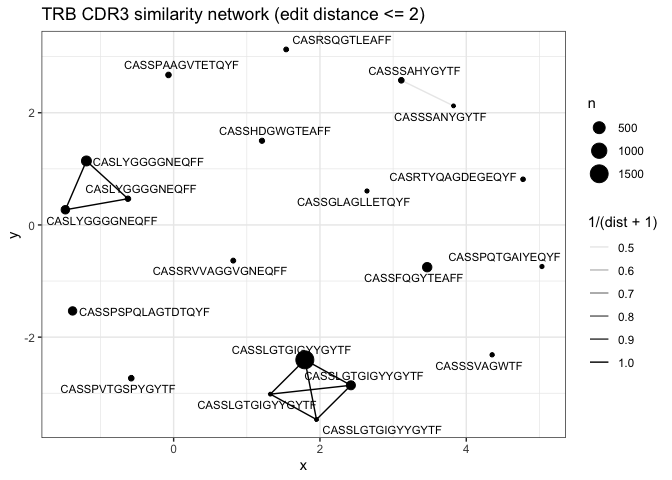
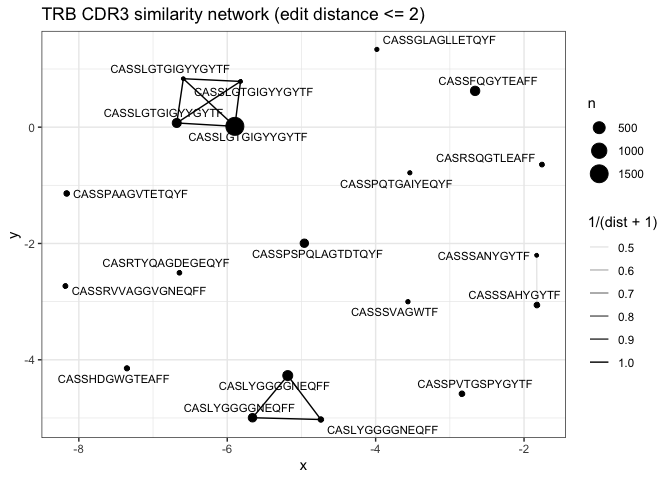
removing unused files

diff --git a/demo_tcr/20260420_DGP845.BCR_TCR_repertoire.md b/demo_tcr/20260420_DGP845.BCR_TCR_repertoire.md
@@ -1,7 +1,7 @@
 Single-cell TCR-seq data and epitope mapping
 ================
 true
-2026-04-14
[phone redacted]
 
 - [1. Introduction](#1-introduction)
   - [Learning goals](#learning-goals)
@@ -52,8 +52,7 @@ Input dataset was download from the 10x Genomics dataset page
 (<https://www.10xgenomics.com/datasets/5k-human-a0201-b0702-pbmcs-beam-t-2-standard>)
 and place in current working directory called `demo_tcr/`. This demo
 uses:\
-- `filtered_contig_annotations.csv` - `clonotypes.csv` -
-`consensus_annotations.csv`
+- `filtered_contig_annotations.csv`
 
 ## Folder structure
 
@@ -61,9 +60,7 @@ uses:\
 DGP-485/
 └── demo_tcr/
     ├── 20260420_DGP845.BCR_TCR_repertoire.Rmd
-    ├── filtered_contig_annotations.csv
-    ├── clonotypes.csv
-    └── consensus_annotations.csv
+    └── filtered_contig_annotations.csv
 ```
 
 ## Load packages
@@ -82,8 +79,6 @@ suppressPackageStartupMessages(library(package = "tidyverse"))
 
 ``` r
 contigsDF <- read.csv("filtered_contig_annotations.csv")
-clonotypesDF <- read.csv("clonotypes.csv")
-consensusDF <- read.csv("consensus_annotations.csv")
 ```
 
 Print the header
@@ -169,128 +164,6 @@ head(contigsDF)
     ## 4 clonotype1_consensus_2                     1
     ## 5 clonotype1_consensus_1                     1
     ## 6 clonotype2_consensus_2                     1
-
-``` r
-head(clonotypesDF)
-```
-
-    ##   clonotype_id frequency proportion
-    ## 1   clonotype1      1552 0.56008661
-    ## 2   clonotype2       288 0.10393360
-    ## 3   clonotype3       243 0.08769397
-    ## 4   clonotype4       206 0.07434139
-    ## 5   clonotype5       166 0.05990617
-    ## 6   clonotype6       163 0.05882353
-    ##                                                 cdr3s_aa
-    ## 1                   TRB:CASSLGTGIGYYGYTF;TRA:CARNTGNQFYF
-    ## 2 TRB:CASLYGGGGNEQFF;TRA:CAADDTNTGNQFYF;TRA:CAVSAINEKLTF
-    ## 3                      TRB:CASSFQGYTEAFF;TRA:CADYYGQNFVF
-    ## 4                                   TRB:CASSLGTGIGYYGYTF
-    ## 5                  TRB:CASLYGGGGNEQFF;TRA:CAADDTNTGNQFYF
-    ## 6                   TRB:CASSPSPQLAGTDTQYF;TRA:CAYSNYQLIW
-    ##                                                                                                                                 cdr3s_nt
-    ## 1                                             TRB:TGTGCCAGCAGTCTAGGGACAGGGATCGGCTACTATGGCTACACCTTC;TRA:TGTGCCCGGAACACCGGTAACCAGTTCTATTTT
-    ## 2 TRB:TGTGCCAGCCTATACGGGGGAGGGGGCAATGAGCAGTTCTTC;TRA:TGTGCTGCCGACGATACGAACACCGGTAACCAGTTCTATTTT;TRA:TGTGCTGTGAGTGCTATAAATGAGAAATTAACCTTT
-    ## 3                                                      TRB:TGTGCCAGCAGTTTTCAGGGATACACTGAAGCTTTCTTT;TRA:TGTGCTGACTACTATGGTCAGAATTTTGTCTTT
-    ## 4                                                                                   TRB:TGTGCCAGCAGTCTAGGGACAGGGATCGGCTACTATGGCTACACCTTC
-    ## 5                                          TRB:TGTGCCAGCCTATACGGGGGAGGGGGCAATGAGCAGTTCTTC;TRA:TGTGCTGCCGACGATACGAACACCGGTAACCAGTTCTATTTT
-    ## 6                                             TRB:TGTGCCAGCAGCCCCAGCCCCCAGCTAGCGGGCACAGATACGCAGTATTTT;TRA:TGTGCTTATAGCAACTATCAGTTAATCTGG
-    ##   inkt_evidence mait_evidence
-    ## 1            NA      TRB:gene
-    ## 2            NA              
-    ## 3            NA              
-    ## 4            NA      TRB:gene
-    ## 5            NA              
-    ## 6            NA
-
-``` r
-head(consensusDF)
-```
-
-    ##   clonotype_id          consensus_id length chain  v_gene d_gene  j_gene c_gene
-    ## 1   clonotype1 clonotype1_consensus1    521   TRB TRBV6-5  TRBD1 TRBJ1-2  TRBC1
-    ## 2   clonotype1 clonotype1_consensus2    743   TRA  TRAV24         TRAJ49   TRAC
-    ## 3   clonotype2 clonotype2_consensus1    590   TRB  TRBV13  TRBD1 TRBJ2-1  TRBC2
-    ## 4   clonotype2 clonotype2_consensus2    662   TRA  TRAV41         TRAJ49   TRAC
-    ## 5   clonotype2 clonotype2_consensus3    656   TRA TRAV8-6         TRAJ48   TRAC
-    ## 6   clonotype3 clonotype3_consensus1    466   TRB  TRBV28        TRBJ1-1  TRBC1
-    ##   full_length productive                       fwr1
-    ## 1        true       true NAGVTQTPKFQVLKTGQSMTLQCAQD
-    ## 2        true       true ILNVEQSPQSLHVQEGDSTNFTCSFP
-    ## 3        true       true AAGVIQSPRHLIKEKRETATLKCYPI
-    ## 4        true       true KNEVEQSPQNLTAQEGEFITINCSYS
-    ## 5        true       true AQSVTQLDSQVPVFEEAPVELRCNYS
-    ## 6        true       true DVKVTQSSRYLVKRTGEKVFLECVQD
-    ##                                                                          fwr1_nt
-    ## 1 AATGCTGGTGTCACTCAGACCCCAAAATTCCAGGTCCTGAAGACAGGACAGAGCATGACACTGCAGTGTGCCCAGGAT
-    ## 2 ATACTGAACGTGGAACAAAGTCCTCAGTCACTGCATGTTCAGGAGGGAGACAGCACCAATTTCACCTGCAGCTTCCCT
-    ## 3 GCTGCTGGAGTCATCCAGTCCCCAAGACATCTGATCAAAGAAAAGAGGGAAACAGCCACTCTGAAATGCTATCCTATC
-    ## 4 AAAAATGAAGTGGAGCAGAGTCCTCAGAACCTGACTGCCCAGGAAGGAGAATTTATCACAATCAACTGCAGTTACTCG
-    ## 5 GCCCAGTCTGTGACCCAGCTTGACAGCCAAGTCCCTGTCTTTGAAGAAGCCCCTGTGGAGCTGAGGTGCAACTACTCA
-    ## 6 GATGTGAAAGTAACCCAGAGCTCGAGATATCTAGTCAAAAGGACGGGAGAGAAAGTTTTTCTGGAATGTGTCCAGGAT
-    ##     cdr1            cdr1_nt              fwr2
-    ## 1  MNHEY    ATGAACCATGAATAC MSWYRQDPGMGLRLIHY
-    ## 2 SSNFYA TCCAGCAATTTTTATGCC LHWYRWETAKSPEALFV
-    ## 3  PRHDT    CCTAGACACGACACT VYWYQQGPGQDPQFLIS
-    ## 4  VGISA    GTAGGAATAAGTGCC LHWLQQHPGGGIVSLFM
-    ## 5 SSVSVY TCGTCTGTTTCAGTGTAT LFWYVQYPNQGLQLLLK
-    ## 6  MDHEN    ATGGACCATGAAAAT MFWYRQDPGLGLRLIYF
-    ##                                               fwr2_nt     cdr2
-    ## 1 ATGTCCTGGTATCGACAAGACCCAGGCATGGGGCTGAGGCTGATTCATTAC   SVGAGI
-    ## 2 TTACACTGGTACAGATGGGAAACTGCAAAAAGCCCCGAGGCCTTGTTTGTA  MTLNGDE
-    ## 3 GTCTACTGGTACCAGCAGGGTCCAGGTCAGGACCCCCAGTTCCTCATTTCG   FYEKMQ
-    ## 4 TTACACTGGCTGCAACAGCATCCAGGAGGAGGCATTGTTTCCTTGTTTATG    LSSGK
-    ## 5 CTCTTCTGGTATGTGCAATACCCCAACCAAGGACTCCAGCTTCTCCTGAAG YLSGSTLV
-    ## 6 ATGTTCTGGTATCGACAAGACCCAGGTCTGGGGCTACGGCTGATCTATTTC   SYDVKM
-    ##                    cdr2_nt                                 fwr3
-    ## 1       TCAGTTGGTGCTGGTATC TDQGEVPNGYNVSRSTTEDFPLRLLSAAPSQTSVYF
-    ## 2    ATGACTTTAAATGGGGATGAA    KKKGRISATLNTKEGYSYLYIKGSQPEDSATYL
-    ## 3       TTTTATGAAAAGATGCAG SDKGSIPDRFSAQQFSDYHSELNMSSLELGDSALYF
-    ## 4          CTGAGCTCAGGGAAG    KKHGRLIATINIQEKHSSLHITASHPRDSAVYI
-    ## 5 TATTTATCAGGATCCACCCTGGTT    KGINGFEAEFNKSQTSFHLRKPSVHISDTAEYF
-    ## 6       TCATATGATGTTAAAATG KEKGDIPEGYSVSREKKERFSLILESASTNQTSMYL
-    ##                                                                                                        fwr3_nt
-    ## 1 ACTGACCAAGGAGAAGTCCCCAATGGCTACAATGTCTCCAGATCAACCACAGAGGATTTCCCGCTCAGGCTGCTGTCGGCTGCTCCCTCCCAGACATCTGTGTACTTC
-    ## 2          AAGAAGAAAGGACGAATAAGTGCCACTCTTAATACCAAGGAGGGTTACAGCTATTTGTACATCAAAGGATCCCAGCCTGAAGACTCAGCCACATACCTC
-    ## 3 AGCGATAAAGGAAGCATCCCTGATCGATTCTCAGCTCAACAGTTCAGTGACTATCATTCTGAACTGAACATGAGCTCCTTGGAGCTGGGGGACTCAGCCCTGTACTTC
-    ## 4          AAGAAGCATGGAAGATTAATTGCCACAATAAACATACAGGAAAAGCACAGCTCCCTGCACATCACAGCCTCCCATCCCAGAGACTCTGCCGTCTACATC
-    ## 5          AAAGGCATCAACGGTTTTGAGGCTGAATTTAACAAGAGTCAAACTTCCTTCCACTTGAGGAAACCCTCAGTCCATATAAGCGACACGGCTGAGTACTTC
-    ## 6 AAAGAAAAAGGAGATATTCCTGAGGGGTACAGTGTCTCTAGAGAGAAGAAGGAGCGCTTCTCCCTGATTCTGGAGTCCGCCAGCACCAACCAGACATCTATGTACCTC
-    ##               cdr3                                          cdr3_nt       fwr4
-    ## 1 CASSLGTGIGYYGYTF TGTGCCAGCAGTCTAGGGACAGGGATCGGCTACTATGGCTACACCTTC  GSGTRLTVV
-    ## 2      CARNTGNQFYF                TGTGCCCGGAACACCGGTAACCAGTTCTATTTT GTGTSLTVIP
-    ## 3   CASLYGGGGNEQFF       TGTGCCAGCCTATACGGGGGAGGGGGCAATGAGCAGTTCTTC  GPGTRLTVL
-    ## 4   CAADDTNTGNQFYF       TGTGCTGCCGACGATACGAACACCGGTAACCAGTTCTATTTT GTGTSLTVIP
-    ## 5     CAVSAINEKLTF             TGTGCTGTGAGTGCTATAAATGAGAAATTAACCTTT GTGTRLTIIP
-    ## 6    CASSFQGYTEAFF          TGTGCCAGCAGTTTTCAGGGATACACTGAAGCTTTCTTT  GQGTRLTVV
-    ##                           fwr4_nt   reads  umis v_start v_end v_end_ref j_start
-    ## 1    GGTTCGGGGACCAGGTTAACCGTTGTAG 6085339 20067      66   410       344     421
-    ## 2 GGGACAGGGACAAGTTTGACGGTCATTCCAA 2502253  7546     304   647       343     645
-    ## 3    GGGCCAGGGACACGGCTCACCGTGCTAG 2920116  7379     111   485       374     494
-    ## 4 GGGACAGGGACAAGTTTGACGGTCATTCCAA  368971  1783     223   559       336     564
-    ## 5 GGGACTGGAACAAGACTCACCATCATACCCA  311696  1661     220   561       341     564
-    ## 6    GGACAAGGCACCAGACTCACAGTTGTAG 1036403  3334      20   364       344     366
-    ##   j_start_ref j_end fwr1_start fwr1_end cdr1_start cdr1_end fwr2_start fwr2_end
-    ## 1           0   469        123      201        201      216        216      267
-    ## 2           0   701        370      448        448      466        466      517
-    ## 3           6   538        198      276        276      291        291      342
-    ## 4           0   620        289      367        367      382        382      433
-    ## 5          13   614        277      355        355      373        373      424
-    ## 6           0   414         77      155        155      170        170      221
-    ##   cdr2_start cdr2_end fwr3_start fwr3_end cdr3_start cdr3_end fwr4_start
-    ## 1        267      285        285      393        393      441        441
-    ## 2        517      538        538      637        637      670        670
-    ## 3        342      360        360      468        468      510        510
-    ## 4        433      448        448      547        547      589        589
-    ## 5        424      448        448      547        547      583        583
-    ## 6        221      239        239      347        347      386        386
-    ##   fwr4_end
-    ## 1      469
-    ## 2      701
-    ## 3      538
-    ## 4      620
-    ## 5      614
-    ## 6      414
 
 # 3. Contig summary
 
@@ -685,7 +558,7 @@ iedbRes <- read_tsv(file = "tcrmatch_result_8381De.tsv")
 ```
 
     ## Rows: 1724 Columns: 7
-    ## ── Column specification ────────────────────────────────────────────────────────────────────────
+    ## ── Column specification ─────────────────────────────────
     ## Delimiter: "\t"
     ## chr (5): trimmed_input_sequence, match_sequence, epitope, antigen, organism
     ## dbl (2): score, receptor_group